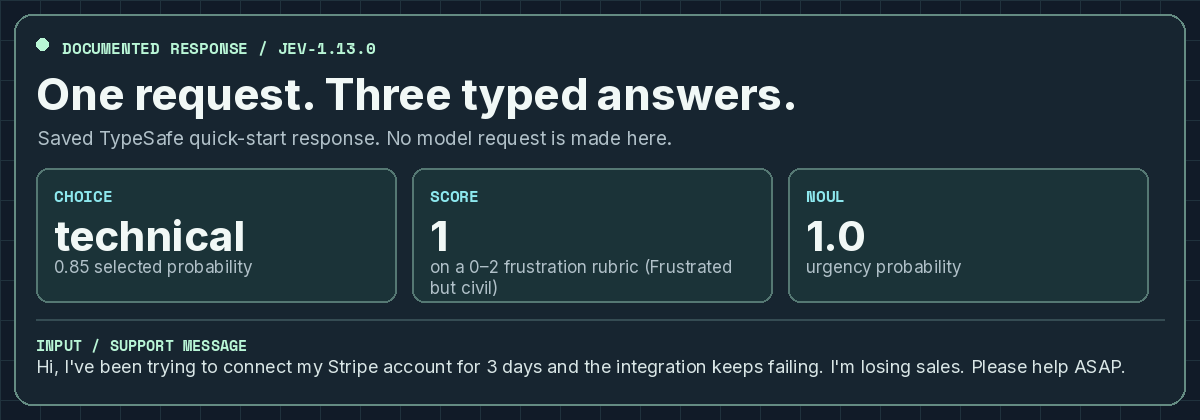
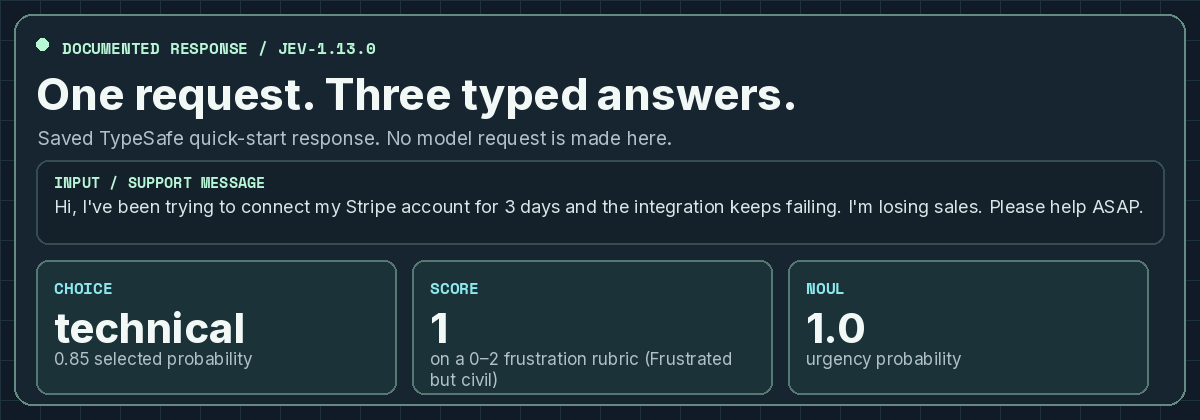
Show documented input before answers in README visual

Changed region(s): [[0.0308, 0.3714, 0.9867, 0.9595], [0.6783, 0.9286, 0.9558, 0.9595], [0.0308, 0.9286, 0.3083, 0.9595]]

diff --git a/scripts/example_card.py b/scripts/example_card.py
@@ -78,20 +78,20 @@ def render_card(model: str, values: dict[str, tuple[str, str]]) -> bytes:
     draw.text((36, 67), "One request. Three typed answers.", font=font(44, 750), fill="#f1f8f6")
     draw.text((38, 126), "Saved TypeSafe quick-start response. No model request is made here.", font=font(19), fill="#b0c0c8")
 
+    draw.rounded_rectangle((36, 160, 1164, 244), radius=12, fill="#14202a", outline="#354c53", width=2)
+    draw.text((54, 171), "INPUT / SUPPORT MESSAGE", font=font(15, mono=True), fill=MINT)
+    for index, line in enumerate(wrap(draw, values["State"][0], font(18), 1092, 2)):
+        draw.text((54, 195 + index * 22), line, font=font(18), fill="#d9e6e6")
+
     for index, kind in enumerate(KINDS[1:]):
         left = 36 + index * 376
         right = left + 360
-        draw.rounded_rectangle((left, 168, right, 302), radius=12, fill="#1b3338", outline="#557873", width=2)
+        draw.rounded_rectangle((left, 260, right, 394), radius=12, fill="#1b3338", outline="#557873", width=2)
         primary, detail = values[kind]
-        draw.text((left + 18, 184), kind.upper(), font=font(16, mono=True), fill="#8de8ee")
-        draw.text((left + 18, 210), primary, font=font(42, 750), fill="#f1f8f6")
+        draw.text((left + 18, 276), kind.upper(), font=font(16, mono=True), fill="#8de8ee")
+        draw.text((left + 18, 302), primary, font=font(42, 750), fill="#f1f8f6")
         for line_index, line in enumerate(wrap(draw, detail, font(17), 324, 2)):
-            draw.text((left + 18, 256 + line_index * 21), line, font=font(17), fill="#b0c0c8")
-
-    draw.line((36, 319, 1164, 319), fill="#354c53", width=2)
-    draw.text((36, 334), "INPUT / SUPPORT MESSAGE", font=font(15, mono=True), fill=MINT)
-    for index, line in enumerate(wrap(draw, values["State"][0], font(18), 1128, 2)):
-        draw.text((36, 355 + index * 22), line, font=font(18), fill="#d9e6e6")
+            draw.text((left + 18, 348 + line_index * 21), line, font=font(17), fill="#b0c0c8")
 
     metadata = PngInfo()
     metadata.add_text("source_sha256", fingerprint(model, values))
